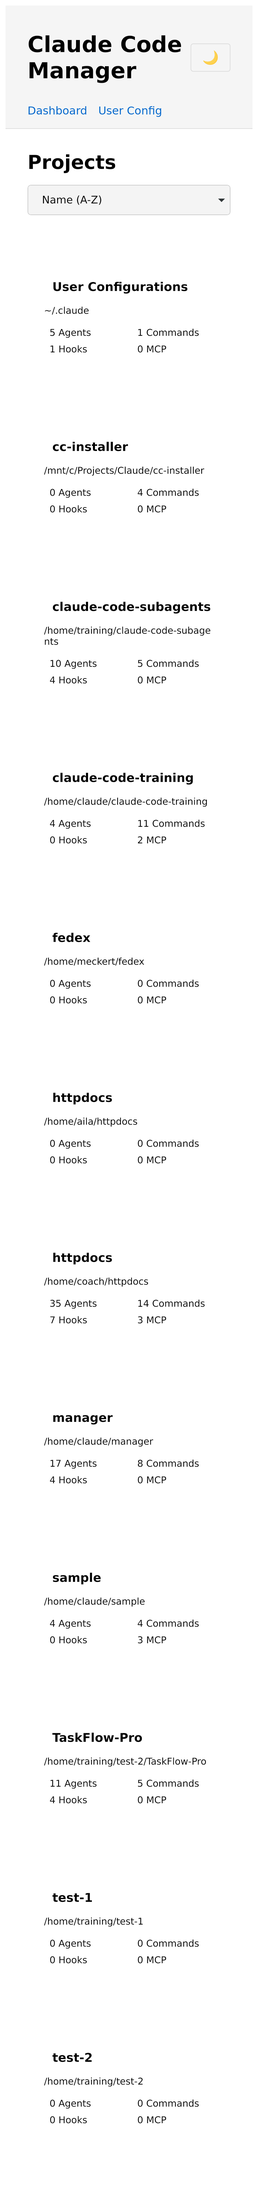
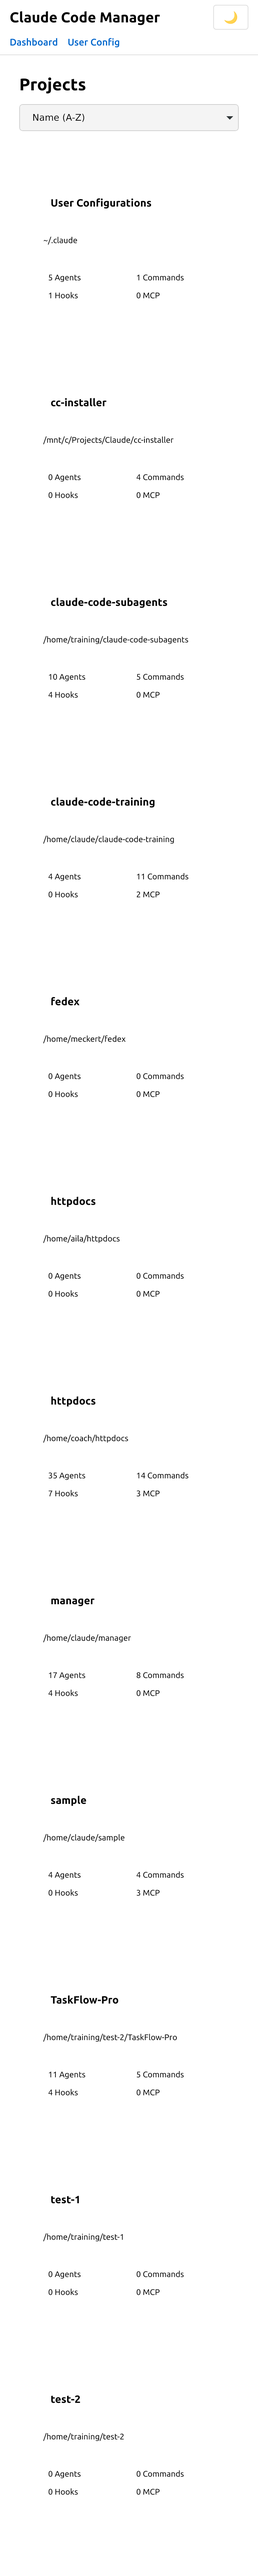
style: [Task 2.6.1] import CSS files in main.js for global styling

diff --git a/src/main.js b/src/main.js
@@ -4,6 +4,11 @@ import App from './App.vue'
 import router from './router'
 import { useThemeStore } from './stores/theme'
 
+// Import global styles
+import './styles/variables.css'
+import './styles/global.css'
+import './styles/components.css'
+
 // Initialize Vue app
 const app = createApp(App)
 const pinia = createPinia()
